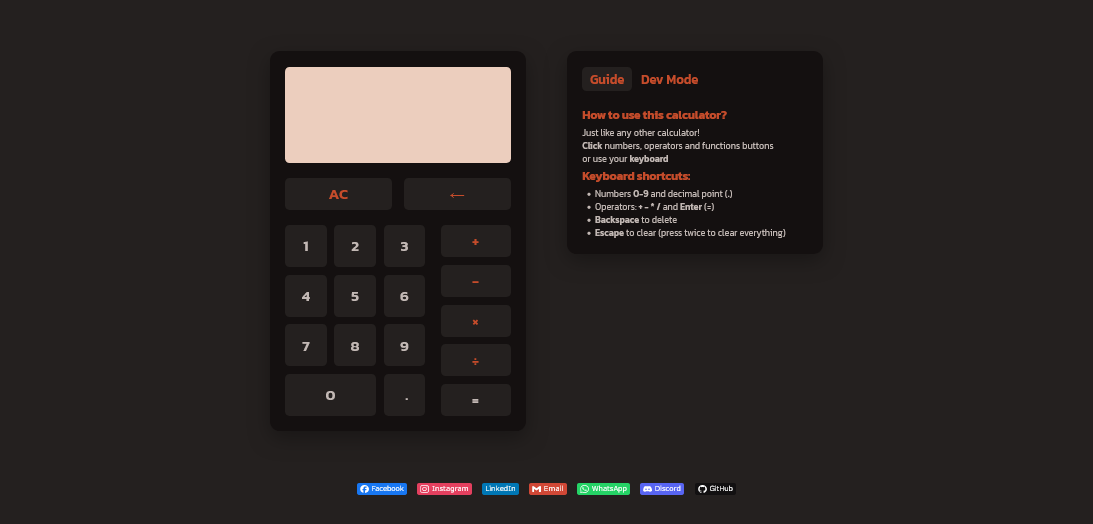
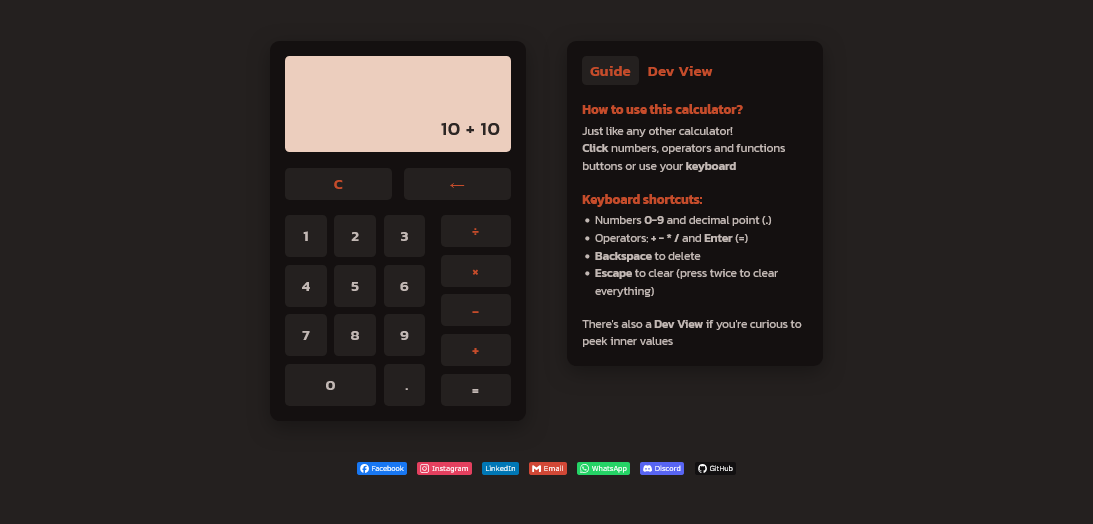
Fixes and changes

diff --git a/index.html b/index.html
@@ -37,19 +37,21 @@
         </div>
 
         <div class="operators">
-          <div class="btn operator operator--add">+</div>
-          <div class="btn operator operator--sub">-</div>
-          <div class="btn operator operator--multi">×</div>
           <div class="btn operator operator--divi">÷</div>
+          <div class="btn operator operator--multi">×</div>
+          <div class="btn operator operator--sub">-</div>
+          <div class="btn operator operator--add">+</div>
           <div class="btn operator operator--equal">=</div>
         </div>
       </div>
 
+      <!-- Info -->
       <div class="info">
         <div class="heading--btns">
           <div class="btn btn--guide active">Guide</div>
-          <div class="btn btn--dev">Dev Mode</div>
+          <div class="btn btn--dev">Dev View</div>
         </div>
+
         <!-- GUIDE -->
         <div class="guide">
           <div class="guide-section">
@@ -58,10 +60,10 @@
               Just like any other calculator!
               <br />
               <strong>Click</strong> numbers, operators and functions
-              buttons
-              <br />
-              or use your <strong>keyboard</strong>
+              buttons or use your <strong>keyboard</strong>
             </p>
+          </div>
+          <div class="guide-section">
             <h2 class="ques">Keyboard shortcuts:</h2>
             <ul class="ans">
               <li>
@@ -79,7 +81,14 @@
               </li>
             </ul>
           </div>
+          <div class="guide-section">
+            <p class="ans">
+              There's also a <strong>Dev View</strong> if you're curious to
+              peek inner values
+            </p>
+          </div>
         </div>
+
         <!-- DEV PANEL -->
         <div class="dev-panel hidden">
           <div class="dev-section">
@@ -137,7 +146,8 @@
       </div>
     </main>
 
-    <div class="footer__my-links">
+    <!-- My contacts -->
+    <footer class="footer__my-links">
       <a href="https://facebook.com/soadul.islam.71">
         <img
           src="https://img.shields.io/badge/Facebook-%231877F2.svg?logo=Facebook&logoColor=white&style=flat-square"
@@ -187,7 +197,7 @@
           class="footer__link footer__contact"
         />
       </a>
-    </div>
+    </footer>
 
     <script src="script.js"></script>
   </body>

diff --git a/style.css b/style.css
@@ -76,7 +76,6 @@ main {
   justify-content: center;
   align-items: flex-start;
   gap: var(--space-64);
-  padding: var(--space-16);
   margin-block: var(--space-64);
 }
 
@@ -123,14 +122,14 @@ strong {
 
 .ques,
 .heading--dev {
-  font-size: var(--fs-18);
+  font-size: var(--fs-20);
   color: var(--accent-100);
 }
 
 .ans,
 .dev-label,
 .dev-value {
-  font-size: var(--fs-14);
+  font-size: var(--fs-18);
   color: var(--text-100);
 }
 
@@ -162,7 +161,7 @@ strong {
 .heading--btns .btn {
   display: inline-block;
 
-  font-size: var(--fs-20);
+  font-size: var(--fs-24);
   font-weight: 600;
   text-align: center;
   color: var(--accent-100);
@@ -312,6 +311,7 @@ strong {
   justify-content: center;
   flex-wrap: wrap;
   gap: clamp(1rem, 1.5vw, 1.6rem);
+  margin-bottom: var(--space-64);
 }
 .footer__link {
   transition: all 0.2s;

diff --git a/script.js b/script.js
@@ -104,9 +104,9 @@ function updateUI() {
         if (history.length === 0) return 'No history yet';
         let historyData = '';
         for (let i = 0; i < history.length; i++)
-          historyData += `${i + 1}. expression: ${
+          historyData += `${i + 1}. [ expression: ${
             history[i].expression
-          }, answer: ${history[i].answer}${
+          }, answer: ${history[i].answer} ]${
             i !== history.length - 1 ? ',' + '<br />' : ''
           }`;
         return historyData;

diff --git a/README.md b/README.md
@@ -4,7 +4,7 @@ A simple yet functional calculator built using basic HTML, CSS, and JavaScript. 
 
 ## How to Use
 
-Just like any regular calculator.
+Just like any regular calculator!
 
 You can **click** the buttons or use your **keyboard**:
 
@@ -13,7 +13,7 @@ You can **click** the buttons or use your **keyboard**:
 - `Backspace` to delete
 - `Escape` to clear (press twice to clear everything)
 
-There's also a **Dev View** if you're curious to peek inner values.
+There's also a **Dev View** if you're curious to peek inner values
 
 ![screenshot](screenshot.png)
 
